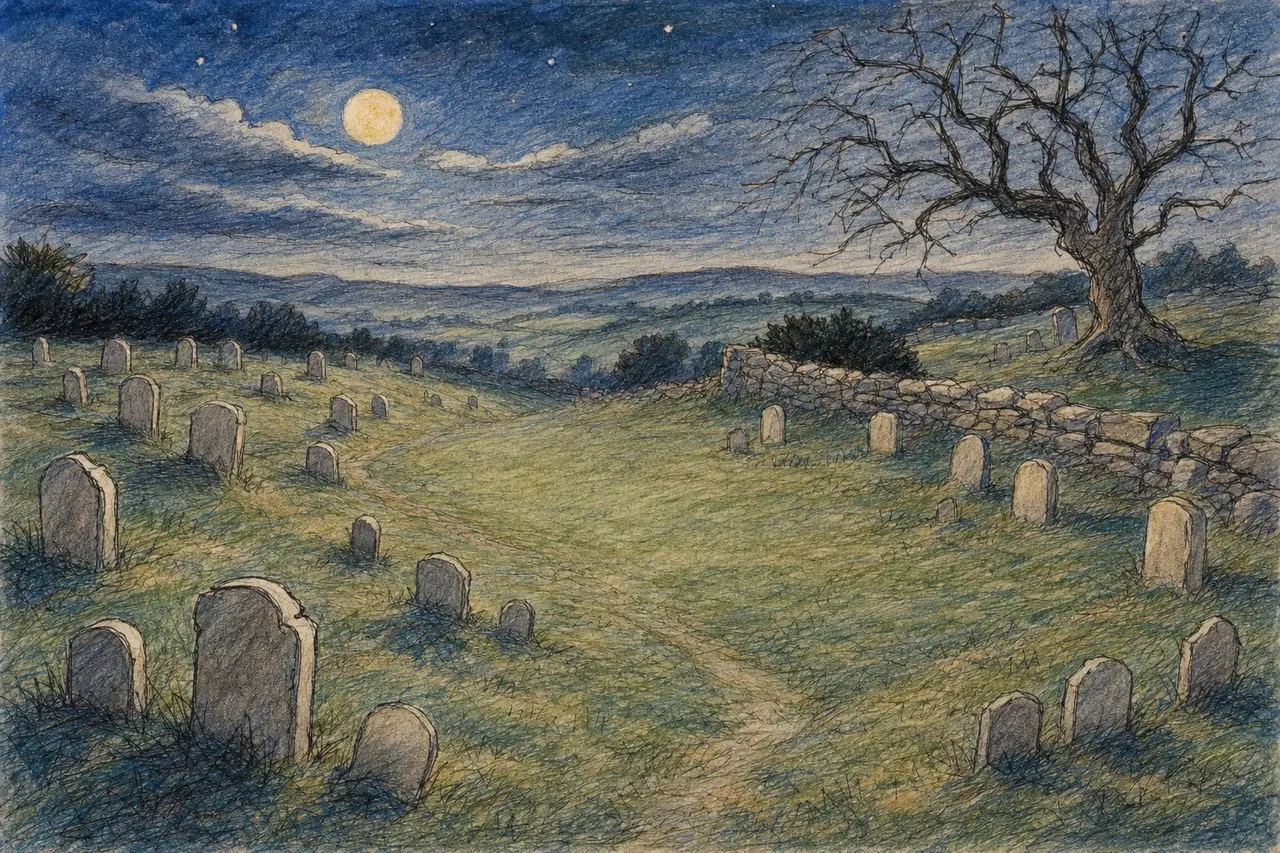
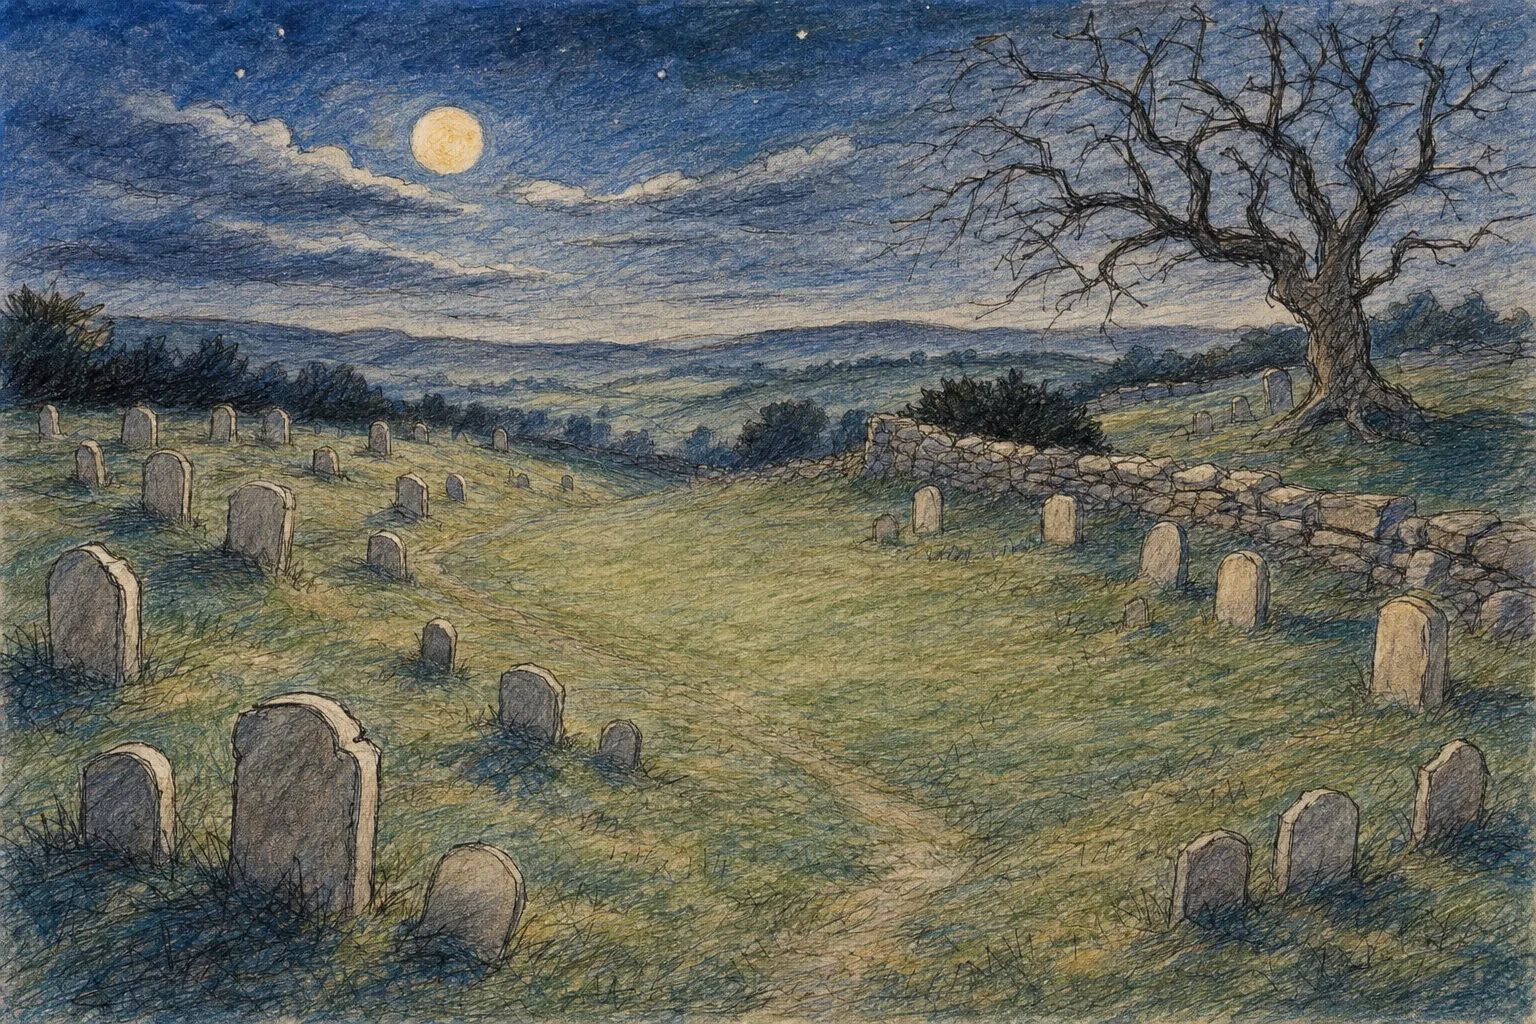
GRAVEYARD: the cemetery at 1536 wide, quality 80

diff --git a/public/screens/graveyard.js b/public/screens/graveyard.js
@@ -247,7 +247,7 @@ export function stepStone(spots, i, key) {
 function cemeteryHtml(spots, art) {
   const stones = spots.map((s, i) => `<a class="gv-plot" href="${esc(q(`GRAVEYARD ${s.e.ticker}`))}" data-cmd="${esc(`GRAVEYARD ${s.e.ticker}`)}" data-i="${i}" aria-label="${esc(tombstoneLine(s.e))}">${stoneHtml({ ...s.e, art: { stone: art.stone } }, { small: true })}</a>`).join('');
   return `<div class="gv-yard${art.cemetery ? ' has-art' : ''}">
-      ${art.cemetery ? `<img class="gv-bg" src="${esc(art.cemetery)}" width="1280" height="853" alt="">` : ''}
+      ${art.cemetery ? `<img class="gv-bg" src="${esc(art.cemetery)}" width="1536" height="1024" alt="">` : ''}
       <div class="gv-ground">${stones}</div>
       <p class="gv-caption" aria-live="polite"></p>
       <p class="gv-corner">${code('GRAVEYARD ZOMBIES', 'ZOMBIES')}</p>
